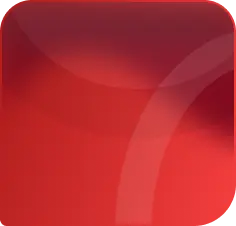
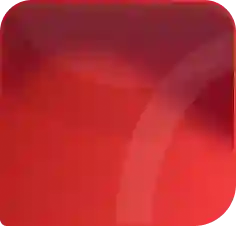
fix: update bet option UI, anim

diff --git a/src/games/next-ball/next-ball.module.scss b/src/games/next-ball/next-ball.module.scss
@@ -23,19 +23,6 @@
 .bg-bet-option {
     position: absolute;
     top: 2px;
-
-    @media screen and (orientation: landscape) {
-        // transform: scale(0.99);
-    }
-}
-
-.under:has(> .bg-bet-option) {
-    @media screen and (orientation: landscape) {
-        .bg-bet-option {
-            left: -1px;
-            width: 234px;
-        }
-    }
 }
 
 %main-option {
@@ -95,6 +82,13 @@
     .disable-layer {
         transform: scaleY(1.01);
         top: 1px;
+        @media screen and (orientation: landscape) {
+            transform: scaleY(1.04);
+            transform: scaleX(1.04);
+            left: 1px;
+            top: 1.6px;
+            border-radius: 3.5rem 0rem 5rem 1rem;
+        }
     }
 }
 
@@ -118,9 +112,8 @@
     left: 0px;
 
     @media screen and (orientation: landscape) {
-        transform: scaleY(0.99);
+        transform: scaleY(1);
         height: 100%;
-        top: -3px;
         left: 1px;
     }
 }
@@ -173,6 +166,7 @@
     background-image: url("/static/images/next-ball/portrait/winning-previous.png?v=#{$version-image}");
 
     @media screen and (orientation: landscape) {
+        scale: 1.01;
         width: 23.6rem;
         height: 22.6rem;
         background-image: url("/static/images/next-ball/landscape/winning-previous.png?v=#{$version-image}");
@@ -186,7 +180,6 @@
 .highlight-prev-result-under {
     @extend %highlight-prev-result;
     transform: scaleX(-1);
-    top: 1px;
 }
 
 .choice-info {
